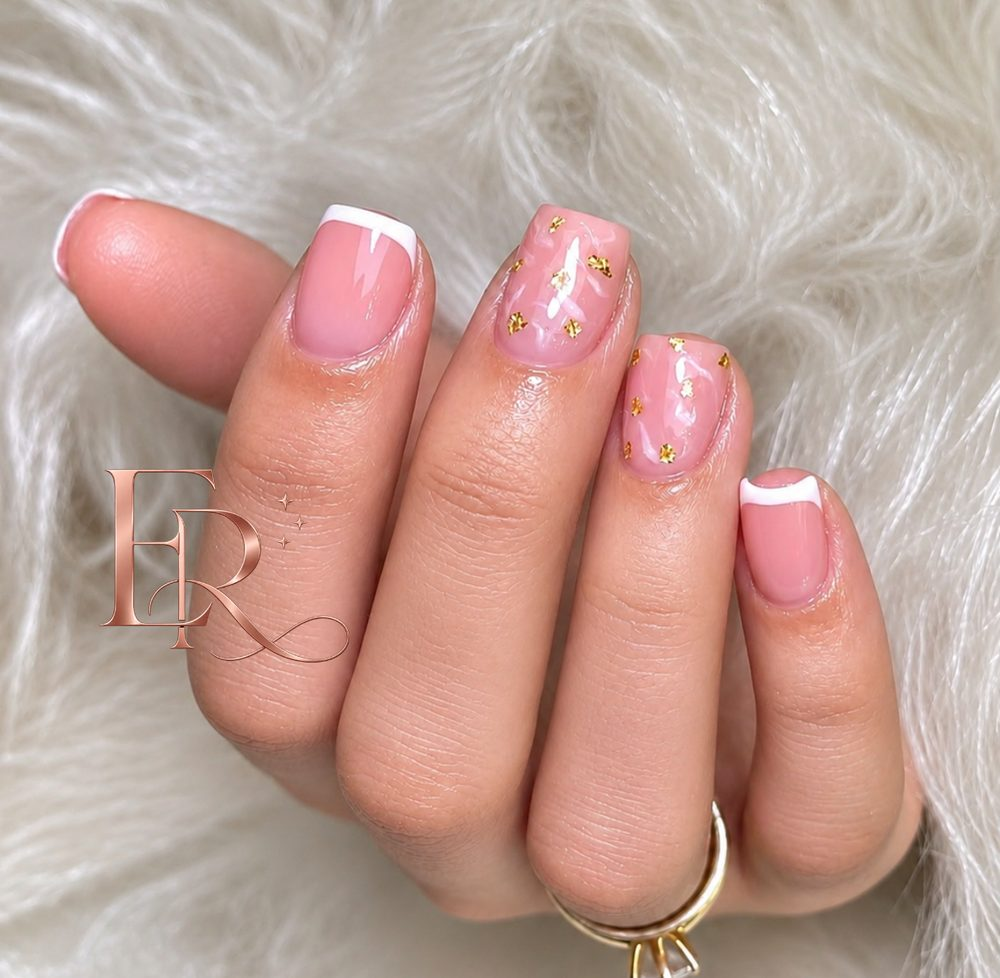
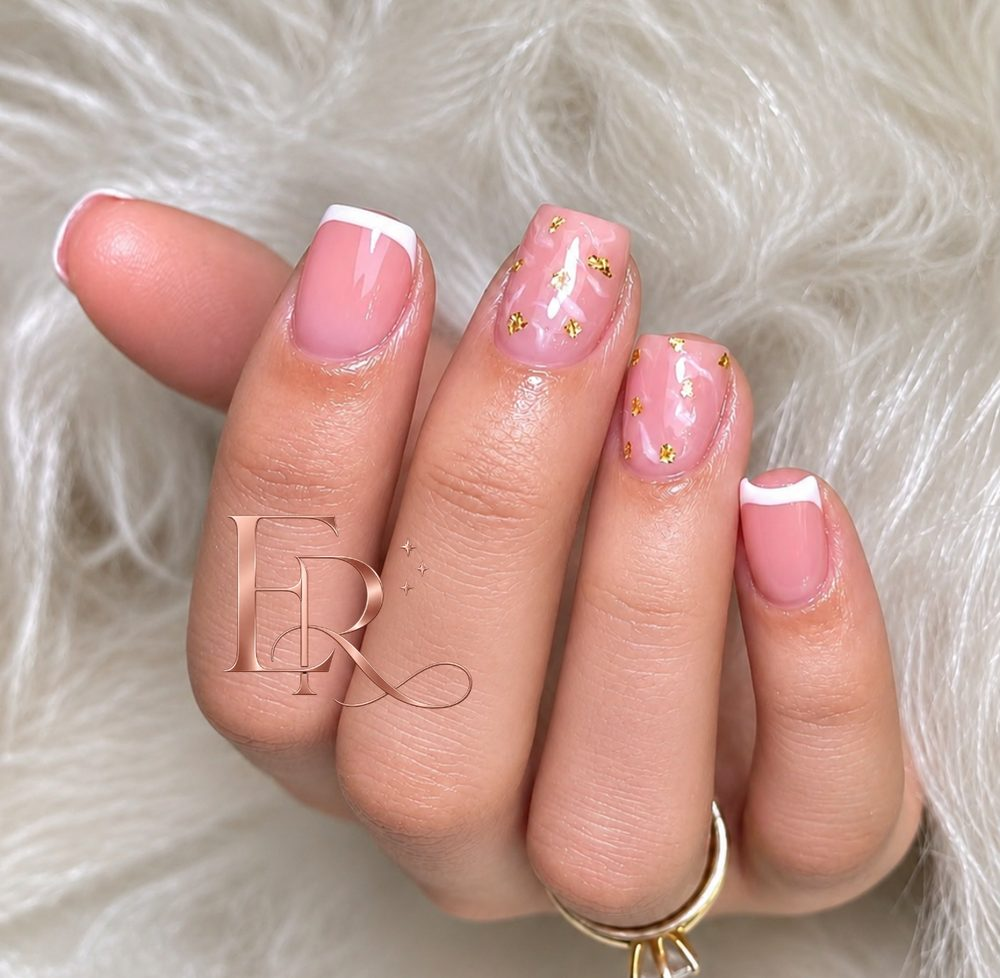
Add files via upload

Changed region(s): [[0.093, 0.4601, 0.434, 0.7362]]

diff --git a/public/index.html b/public/index.html
@@ -58,9 +58,9 @@ section{position:relative;padding:96px 0}
 .cover .eyebrow{margin-top:26px;color:var(--rose);letter-spacing:.5em;font-size:.72rem}
 .cover h1{font-family:var(--serif);font-weight:500;font-size:clamp(1.9rem,8.4vw,3.2rem);letter-spacing:.14em;line-height:1.15;margin-top:10px}
 .cover .tagline{font-family:var(--serif);font-style:italic;font-size:clamp(1.05rem,4.4vw,1.35rem);color:var(--rose-deep);margin-top:10px;max-width:340px}
-.arch{position:relative;width:min(300px,74vw);margin-top:38px;padding:7px;border-radius:999px 999px 22px 22px;background:var(--metal);box-shadow:0 30px 60px -30px rgba(142,79,89,.55)}
-.arch img{width:100%;aspect-ratio:3/4;object-fit:cover;border-radius:999px 999px 16px 16px}
-.arch::after{content:"";position:absolute;inset:7px;border-radius:999px 999px 16px 16px;background:linear-gradient(115deg,transparent 35%,rgba(255,240,235,.22) 50%,transparent 65%);background-size:250% 100%;animation:sweep 6s ease-in-out infinite;pointer-events:none}
+.arch{position:relative;width:min(300px,74vw);margin-top:38px;padding:7px;border-radius:24px;background:var(--metal);box-shadow:0 30px 60px -30px rgba(142,79,89,.55)}
+.arch img{width:100%;height:auto;border-radius:18px}
+.arch::after{content:"";position:absolute;inset:7px;border-radius:18px;background:linear-gradient(115deg,transparent 35%,rgba(255,240,235,.22) 50%,transparent 65%);background-size:250% 100%;animation:sweep 6s ease-in-out infinite;pointer-events:none}
 @keyframes sweep{0%,100%{background-position:120% 0}50%{background-position:-20% 0}}
 .scroll-cue{margin-top:34px;display:flex;flex-direction:column;align-items:center;gap:8px;font-size:.62rem;letter-spacing:.4em;text-transform:uppercase;color:#a58c87}
 .scroll-cue span{width:1px;height:38px;background:linear-gradient(var(--rose),transparent);animation:drip 2.4s var(--ease) infinite}
@@ -78,8 +78,7 @@ section{position:relative;padding:96px 0}
 .card:active{transform:scale(.985)}
 @media(hover:hover){.card:hover{transform:translateY(-4px);box-shadow:0 26px 50px -24px rgba(142,79,89,.55)}}
 .card .ph{position:relative;overflow:hidden;border-radius:14px}
-.card .ph img{width:100%;aspect-ratio:4/5;object-fit:cover;transition:transform 1.2s var(--ease)}
-@media(hover:hover){.card:hover .ph img{transform:scale(1.04)}}
+.card .ph img{width:100%;height:auto}
 .card .ph::after{content:"";position:absolute;inset:0;border-radius:14px;box-shadow:inset 0 0 0 1px rgba(255,255,255,.35)}
 .card .info{display:flex;align-items:flex-end;justify-content:space-between;gap:12px;padding:18px 10px 0}
 .card h3{font-family:var(--serif);font-weight:500;font-size:1.45rem;line-height:1.15;color:var(--ink)}
@@ -110,13 +109,11 @@ section{position:relative;padding:96px 0}
 .inc-items svg{width:26px;height:26px;stroke:var(--rose);fill:none;stroke-width:1.2;stroke-linecap:round;stroke-linejoin:round}
 
 /* ---------- galeria ---------- */
-.gallery{display:grid;grid-template-columns:repeat(2,1fr);gap:10px}
-.gallery button{all:unset;cursor:zoom-in;position:relative;overflow:hidden;border-radius:14px;display:block;box-shadow:0 16px 34px -22px rgba(142,79,89,.6)}
+.gallery{columns:2;column-gap:10px}
+.gallery button{all:unset;cursor:zoom-in;position:relative;overflow:hidden;border-radius:14px;display:block;width:100%;margin-bottom:10px;break-inside:avoid;box-shadow:0 16px 34px -22px rgba(142,79,89,.6)}
 .gallery button:focus-visible{outline:2px solid var(--rose-light);outline-offset:3px}
-.gallery img{width:100%;aspect-ratio:4/5;object-fit:cover;transition:transform 1.2s var(--ease),filter .6s}
-.gallery button:nth-child(3n+1){grid-column:span 2}
-.gallery button:nth-child(3n+1) img{aspect-ratio:16/13}
-@media(hover:hover){.gallery button:hover img{transform:scale(1.05)}}
+.gallery img{width:100%;height:auto;transition:opacity .6s}
+@media(hover:hover){.gallery button:hover img{opacity:.9}}
 .gallery button::after{content:"";position:absolute;inset:0;border-radius:14px;box-shadow:inset 0 0 0 1px rgba(255,255,255,.5);pointer-events:none}
 .zoom-hint{text-align:center;margin-top:22px;font-size:.66rem;letter-spacing:.3em;text-transform:uppercase;color:var(--muted)}
 
@@ -234,9 +231,8 @@ footer .wrap{padding-top:30px}
 @media(min-width:700px){
   section{padding:120px 0}
   .cards{grid-template-columns:repeat(2,1fr)}
-  .gallery{grid-template-columns:repeat(3,1fr);gap:14px}
-  .gallery button:nth-child(3n+1){grid-column:auto}
-  .gallery button:nth-child(3n+1) img{aspect-ratio:4/5}
+  .gallery{columns:3;column-gap:14px}
+  .gallery button{margin-bottom:14px}
   .fab{display:none}
   footer{padding-bottom:40px}
 }
@@ -265,14 +261,14 @@ footer .wrap{padding-top:30px}
   .svc-grid .cat-label{display:none}
   .cards,.cards.three{display:contents}
   .card{padding:2mm 2mm 3.5mm;box-shadow:none;break-inside:avoid}
-  .card .ph img{aspect-ratio:1/1}
+  .card .ph img{aspect-ratio:1/1;object-fit:contain;background:#fff}
   .card .info{padding:3mm 1.5mm 0;flex-direction:column;align-items:flex-start;gap:1mm}
   .card h3{font-size:1.05rem}
   .price{text-align:left}
   .price b{font-size:1.15rem}
-  .gallery{grid-template-columns:repeat(3,1fr);gap:4mm}
-  .gallery button:nth-child(3n+1){grid-column:auto}
-  .gallery button:nth-child(3n+1) img,.gallery img{aspect-ratio:4/5}
+  .gallery{columns:3;column-gap:4mm}
+  .gallery button{margin-bottom:4mm}
+  .gallery img{aspect-ratio:1/1;object-fit:contain;background:#fff}
   .print-only{display:block!important}
   .btn::after{display:none}
   .btn{padding:3.5mm 7mm}
